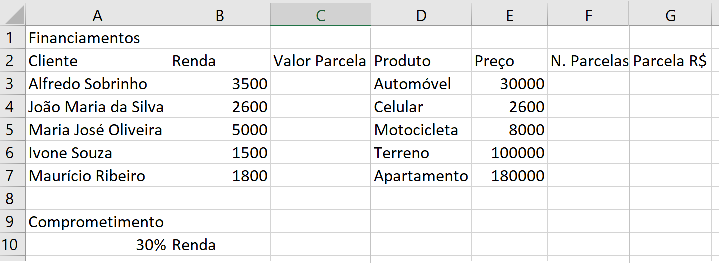
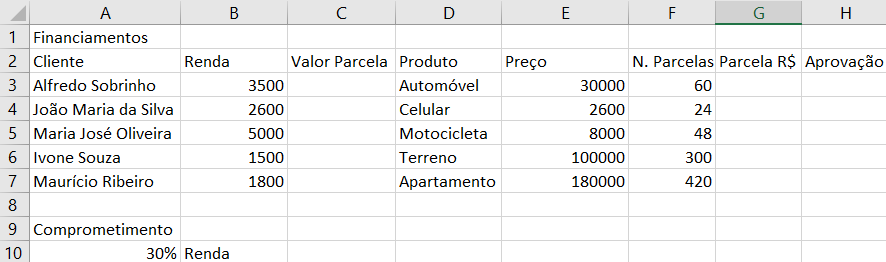
excel aula05

Changed region(s): [[0.0, 0.0305, 1.0, 1.0], [0.4896, 0.0305, 0.5202, 0.0611]]

diff --git a/excel_40/aula05/README.md b/excel_40/aula05/README.md
@@ -2,3 +2,7 @@
 - Exercícios com cálculos de porcentagem e função SE()
 - SE(Comparação > maior, Menor, igual...; se sim; senão)
 - <img src="atividade01.png">
+- 1. Calcule o "Valor da Parcela" na coluna "C" sabendo que o Cliente só pode comprometer até 30% de sua renda por parcela
+- 2. Calcule a "Parcela R$" na coluna "G" sem juros.
+- 4. Escreva na coluna "H" as palavras "Aprovado" se o "Parcela R$" for menor do que "Valor da Parcela" ou "Reprovado" senão.
+- 3. Exclua os dados da coluna "G" e calcule novamenta agora aplicando um jurtos simples de 13,75% ao ano.
